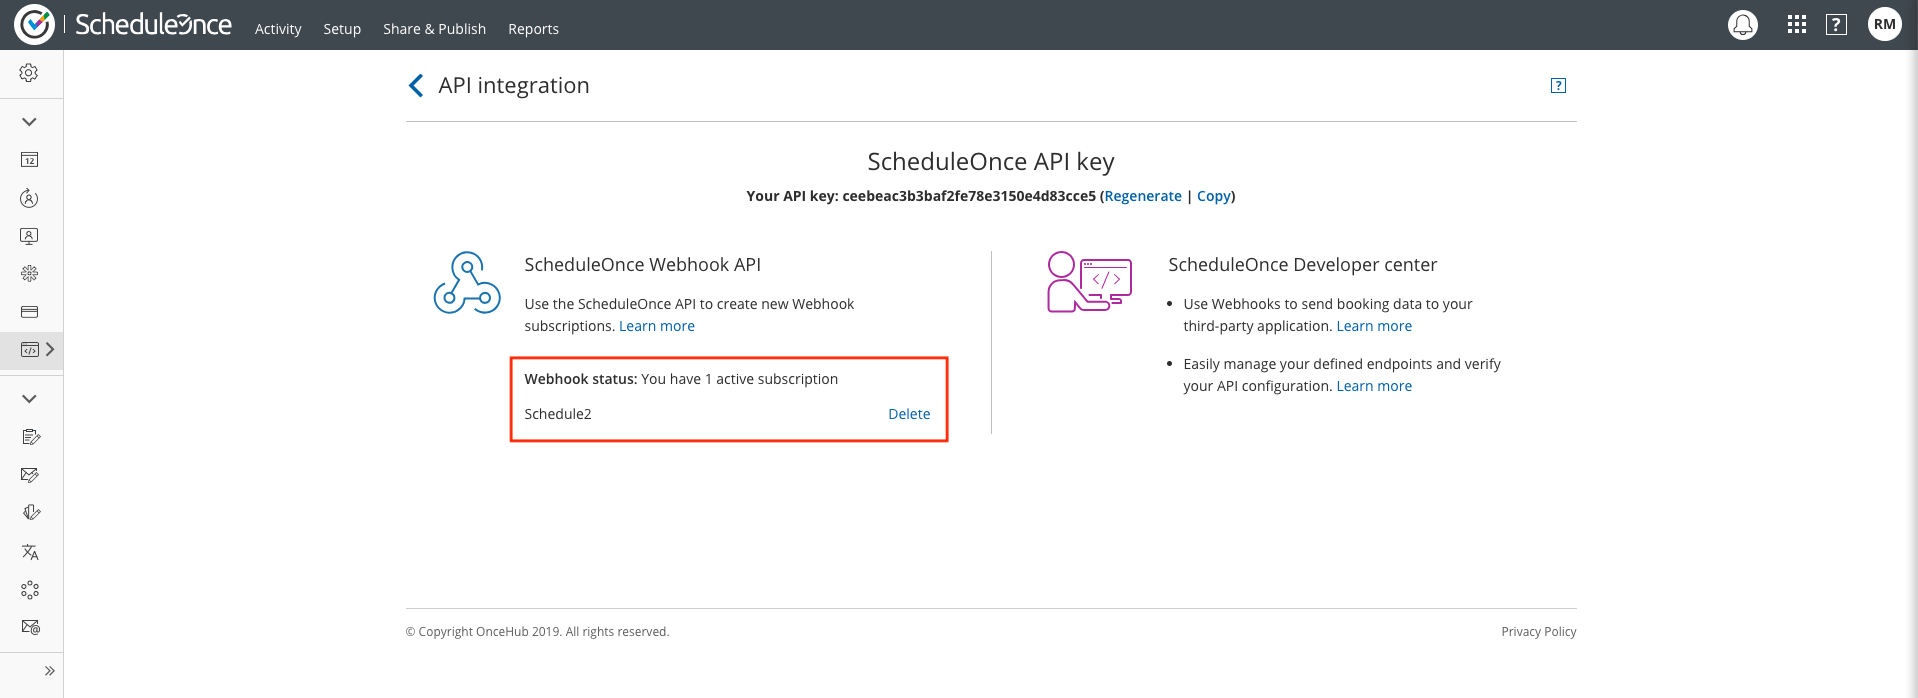
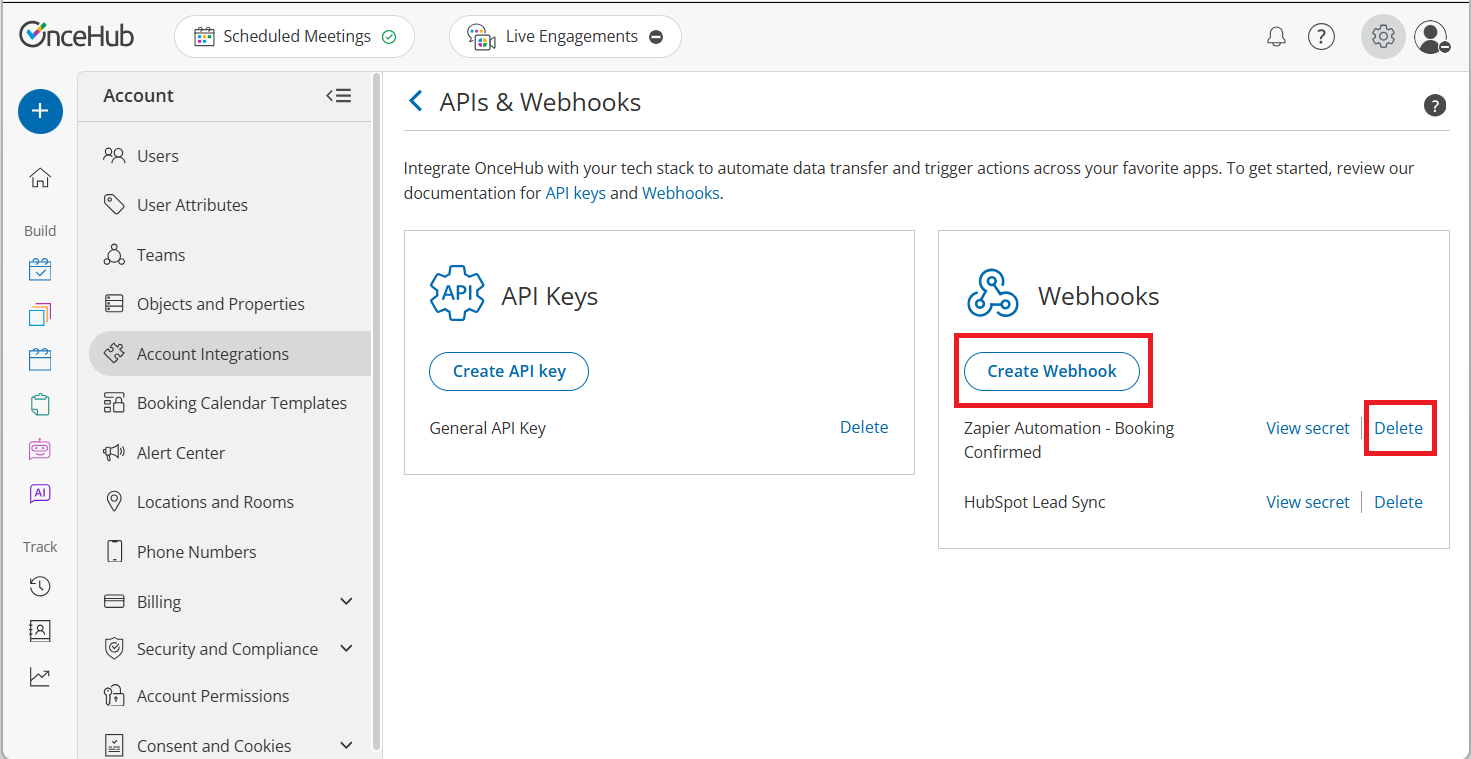
Have updated Webhook topics, API Authentication topics and Reassign a booking topic's location parameter.

diff --git a/docs/overview/authentication.md b/docs/overview/authentication.md
@@ -6,32 +6,39 @@ description: Generate and use API keys to authenticate requests to the OnceHub A
 
 # Authentication
 
-To interact with the **Rest API and MCP Server**, you must authenticate every request using a unique API Key. All communication must occur over **HTTPS**; requests made over plain HTTP will fail.
+To interact with the **OnceHub Rest API and MCP Server**, you must authenticate every request using a unique **API Key**. For your security, all communication must occur over **HTTPS**; requests made over plain HTTP will be rejected.
 
-## Getting Started
+OnceHub utilizes industry-standard cryptographic practices to protect your credentials.
 
-This key is automatically generated the first time you access the **API Integrations** section of your OnceHub account. The API key remains valid until you choose to regenerate it or delete your account.
+- **Hashed Key Storage:** OnceHub does not store API keys in plaintext. Because we only store a secure cryptographic hash, your key is **displayed only once** upon generation. It cannot be retrieved again by any user or by OnceHub Support.
+- **Multi-Key Management:** You can maintain up to **25 active API keys** per account to support:
+  - **Environment Segregation:** Use separate keys for staging and production environments to prevent accidental data leaks.
+  - **Vendor Management:** Assign unique keys to different third-party integrations to manage or revoke access independently.
+  - **Zero-Downtime Rotation:** Supporting multiple concurrent keys allows you to generate a new key and update your application before revoking the old one, ensuring continuous service.
 
-## Locating Your API Key
+## Generate an API Key
 
-1. **Log in** to your OnceHub account.
-2. Click the **gear icon** in the top right corner and select **Account Integrations**.
+1. Login to Oncehub account and click the **gear icon** located in the top-right corner of the page.
+2. Select **Account Integrations** from the dropdown menu.
 3. Select the **APIs & Webhooks** tile.
-4. Your key is displayed at the top
+4. In the **API Keys** section, click the **Create API key** button.
+5. In the pop-up, enter a descriptive **API Key Name** (e.g., "Production CRM").
+6. Click **Generate key**. The **API Key Created Successfully** pop-up will appear. **Note:**
+   Your API key is displayed here. For security reasons, it will only be displayed once.
+7. Click **Copy & close** to copy the key to your clipboard and save it in a secure location.
 
 <img src="/img/API-Key.png" alt="API Key" width="780" />
 
-## Managing Your Key
+## Delete an API Key
 
-You can manage your credentials using the following links located next to your key:
+If a key is compromised or no longer needed, you should delete it immediately to protect your data.
 
-- **Copy:** Click this to instantly copy your API key to your clipboard for use in your application.
+1. Locate the specific key in the **API Keys** list.
+2. Click the **Delete** link next to the key name.
+3. A **Delete Key** confirmation pop-up will appear warning that any application using this key will immediately lose access.
+4. Click **Delete key** button to permanently delete the credential.
 
-<img src="/img/Regenerate-API-Key.png" alt="Copy-API-Key" width="780" />
-
-- **Regenerate:** If you suspect your key has been compromised, click **Regenerate** to expire your current key and generate a new one for security reasons.
-
-<img src="/img/Regenerate-API-Key.png" alt="Regenerate API Key" width="780" />
+<img src="/img/Delete-API-Key.png" alt="Copy-API-Key" width="780" />
 
 ## Using your API Key
 
@@ -46,18 +53,14 @@ API-Key: your-api-key-here
 Content-Type: application/json
 ```
 
-## Testing Your API Key
+## Testing your API Key
 
-Once you have your key, test it by making a request to our [**validation endpoint**](https://developers.oncehub.com/reference/booking-calendars/#tag/authentication/get/test) to confirm your connection is active.
+Once you have your key, test it by making a request to our [**validation endpoint**](https://developers.oncehub.com/reference/booking-calendars/#tag/authentication/GET/test) to confirm your connection is active. If the key is missing or invalid, the API will return a 401 Unauthorized error.
 
 ## Security Best Practices
 
 Your API key grants significant access to your account data. Protect it by following these standards:
 
 - **Server-Side Only:** Never expose your API key in client-side code (JavaScript), public GitHub repositories, or mobile app binaries.
-- **Environment Variables:** Store keys in secure environment variables rather than hard-coding them.
-- **Regular Rotation:** Periodically regenerate your key to minimize the impact of potential leaks.
-
-```
-
-```
+- **Environment Variables:** Store keys in secure environment variables rather than hard-coding them into your source code.
+- **Lost Keys:** If you lose an API key, OnceHub Support cannot recover it for you. You must delete the lost key, generate a new one, and update your integration.

diff --git a/docs/webhooks/managing-webhook-subscriptions.md b/docs/webhooks/managing-webhook-subscriptions.md
@@ -9,17 +9,28 @@ slug: /webhooks/managing-webhook-subscriptions/
 
 The Webhook API allows you to create, retrieve, and delete your webhook subscriptions.
 
-Create new webhook subscriptions by sending a POST request to the **/webhooks** endpoint. The User must specify the name of the webhook subscription; no two webhooks associated with the same account can share the same name. Each webhook is also assigned a unique and secure alphanumeric ID when it is created. [Learn more about creating Webhooks via the API](/reference/booking-calendars/#tag/webhooks/post/webhooks)
+Create new webhook subscriptions by sending a POST request to the **/webhooks** endpoint. The User must specify the name of the webhook subscription; no two webhooks associated with the same account can share the same name. Each webhook is also assigned a unique and secure alphanumeric ID when it is created. [Learn more about creating Webhooks via the API](/reference/booking-calendars/#tag/webhooks/POST/webhooks)
 
-You can retrieve a list of all webhook subscriptions associated with your account by passing a GET request to the **/webhooks** endpoint. You can also retrieve a single webhook subscription by passing the ID of the desired webhook object. [Learn more about retrieving Webhooks via the API](/reference/booking-calendars/#tag/webhooks/get/webhooks)
+You can retrieve a list of all webhook subscriptions associated with your account by passing a GET request to the **/webhooks** endpoint. You can also retrieve a single webhook subscription by passing the ID of the desired webhook object. [Learn more about retrieving Webhooks via the API](/reference/booking-calendars/#tag/webhooks/GET/webhooks)
 
-If for some reason you need to delete your webhook subscriptions, you can do so by sending a DELETE request to the **/webhooks** endpoint, along with the ID of the webhook you wish to delete. [Learn more about deleting Webhooks via the API](/reference/booking-calendars/#tag/webhooks/delete/webhooksid)
+If for some reason you need to delete your webhook subscriptions, you can do so by sending a DELETE request to the **/webhooks** endpoint, along with the ID of the webhook you wish to delete. [Learn more about deleting Webhooks via the API](/reference/booking-calendars/#tag/webhooks/DELETE/webhooks/%7Bid%7D)
 
 ## Managing Webhook Subscriptions via the OnceHub Application
 
-Webhook subscriptions can also be managed by the account administrator via the OnceHub application.
+Administrators can create and manage webhook subscriptions through the APIs & Webhooks section of the OnceHub application.
 
-When a webhook subscription is successfully created, the webhook object will be available in your OnceHub account. You can view or delete webhook subscriptions associated with your account by navigating to the <a target="_blank" href="https://app.oncehub.com/integrations/api"> API & Webhooks Integration page</a>.
+Once created, you can view, manage, or delete these subscriptions directly on the <a target="_blank" href="https://app.oncehub.com/integrations/api"> API & Webhooks Integration page</a>.
+
+### Create a Webhook
+
+1. Click the gear icon (top-right) and select **Account Integrations**.
+2. Select the **APIs & Webhooks** tile.
+3. In the Webhooks section, click the **Create Webhook** button.
+4. In the pop-up, provide the following details:
+   - **Webhook Name:** A unique, descriptive name (must contain at least one alphanumeric character).
+   - **Webhook URL:** The destination address (must start with `https://`).
+5. Click **Next** and select the specific events that should trigger the payload.
+6. Click **Create**. A **Webhook Secret** will be displayed. Click **Copy & close** to save this secret immediately. It is required to verify that the received data is authentic.
 
 ![API integration - Webhook subscription list](/img/screenshots/api-integration-webhook-subscription-list.png)
-_Figure 1: API integration - Webhook subscription list_
+_Figure 1: API & Webhooks integration page - Webhook subscription list_

diff --git a/docs/webhooks/introduction-to-webhooks.md b/docs/webhooks/introduction-to-webhooks.md
@@ -17,9 +17,9 @@ Multiple webhook subscriptions can be associated with the same OnceHub account. 
 
 An HTTP POST message is used to push relevant booking or conversation data to the webhook URL, and is triggered whenever the defined lifecycle event occurs. The data is sent as JSON key-value pairs (KVPs) to your receiving server when a booking lifecycle event occurs in your OnceHub account. For example, you can create a webhook that sends customer details whenever a new booking is scheduled. [View all available webhook events](/reference/booking-calendars/#tag/webhook-events).
 
-## Managing Your Webhooks
+## Managing your Webhooks
 
-Webhook subscriptions can be created, deleted, and retrieved via the webhooks API. You can also view and delete your webhooks from the <a target="_blank" href="https://app.oncehub.com/integrations/api">API Integration</a> page. [Learn more about managing Webhook subscriptions](/docs/webhooks/managing-webhook-subscriptions)
+Webhook subscriptions can be created, deleted, and retrieved via the webhooks API. You can also view and delete your webhooks from the <a target="_blank" href="https://app.oncehub.com/integrations/api">API & Webhooks Integration</a> page. [Learn more about managing Webhook subscriptions](/docs/webhooks/managing-webhook-subscriptions)
 
 ![API Integration page with navigation menu](/img/screenshots/api-integration-page-with-navigation-menu.png)
-_Figure 1: API Integration page with navigation menu_
+_Figure 1: API & Webhooks Integration page with navigation menu_

diff --git a/docs/webhooks/using-webhooks.md b/docs/webhooks/using-webhooks.md
@@ -39,6 +39,6 @@ Simply configure your webhook subscription with a URL generated by one of these 
 
 Webhooks can be used to easily integrate OnceHub with a SaaS application. Once you have <a target="_blank" href="https://account.oncehub.com/signup">registered a OnceHub account</a>, setting up webhook integration with a SaaS application is simple:
 
-1. [Create a webhook subscription](/reference/booking-calendars/#tag/webhooks/post/webhooks) by sending a POST request to the **/webhooks** endpoint, configured with the relevant event triggers and the URL where you want to receive data.
+1. [Create a webhook subscription](/reference/booking-calendars/#tag/webhooks/POST/webhooks) by sending a POST request to the **/webhooks** endpoint, configured with the relevant event triggers and the URL where you want to receive data.
 2. Receive booking or conversation data every time a booking or conversation lifecycle event is triggered.
 3. Integrate OnceHub booking or conversation data into your application.

diff --git a/docs/recipes/embed-calendar-cohosts.md b/docs/recipes/embed-calendar-cohosts.md
@@ -11,7 +11,7 @@ This recipe shows how to dynamically update the OnceHub Booking Calendar to show
 
 ## Prerequisites
 
-- An active OnceHub Booking Calendar for the primary host. This Booking Calendar acts as the base for the booking and determines the meeting's primary configuration.
+- To support any team member as the primary host, ensure each potential host has an active OnceHub Booking Calendar. The first team member selected by the guest will dynamically set the base booking URL, while subsequent selections are appended as co-hosts via the `co_hosts` parameter.
 - An active seat/license and configured availability for all potential co-hosts.
 - The standard OnceHub embed script integrated into your host page.
 - A list of team member email addresses (as configured in OnceHub) to map to your checkbox values in the HTML.
